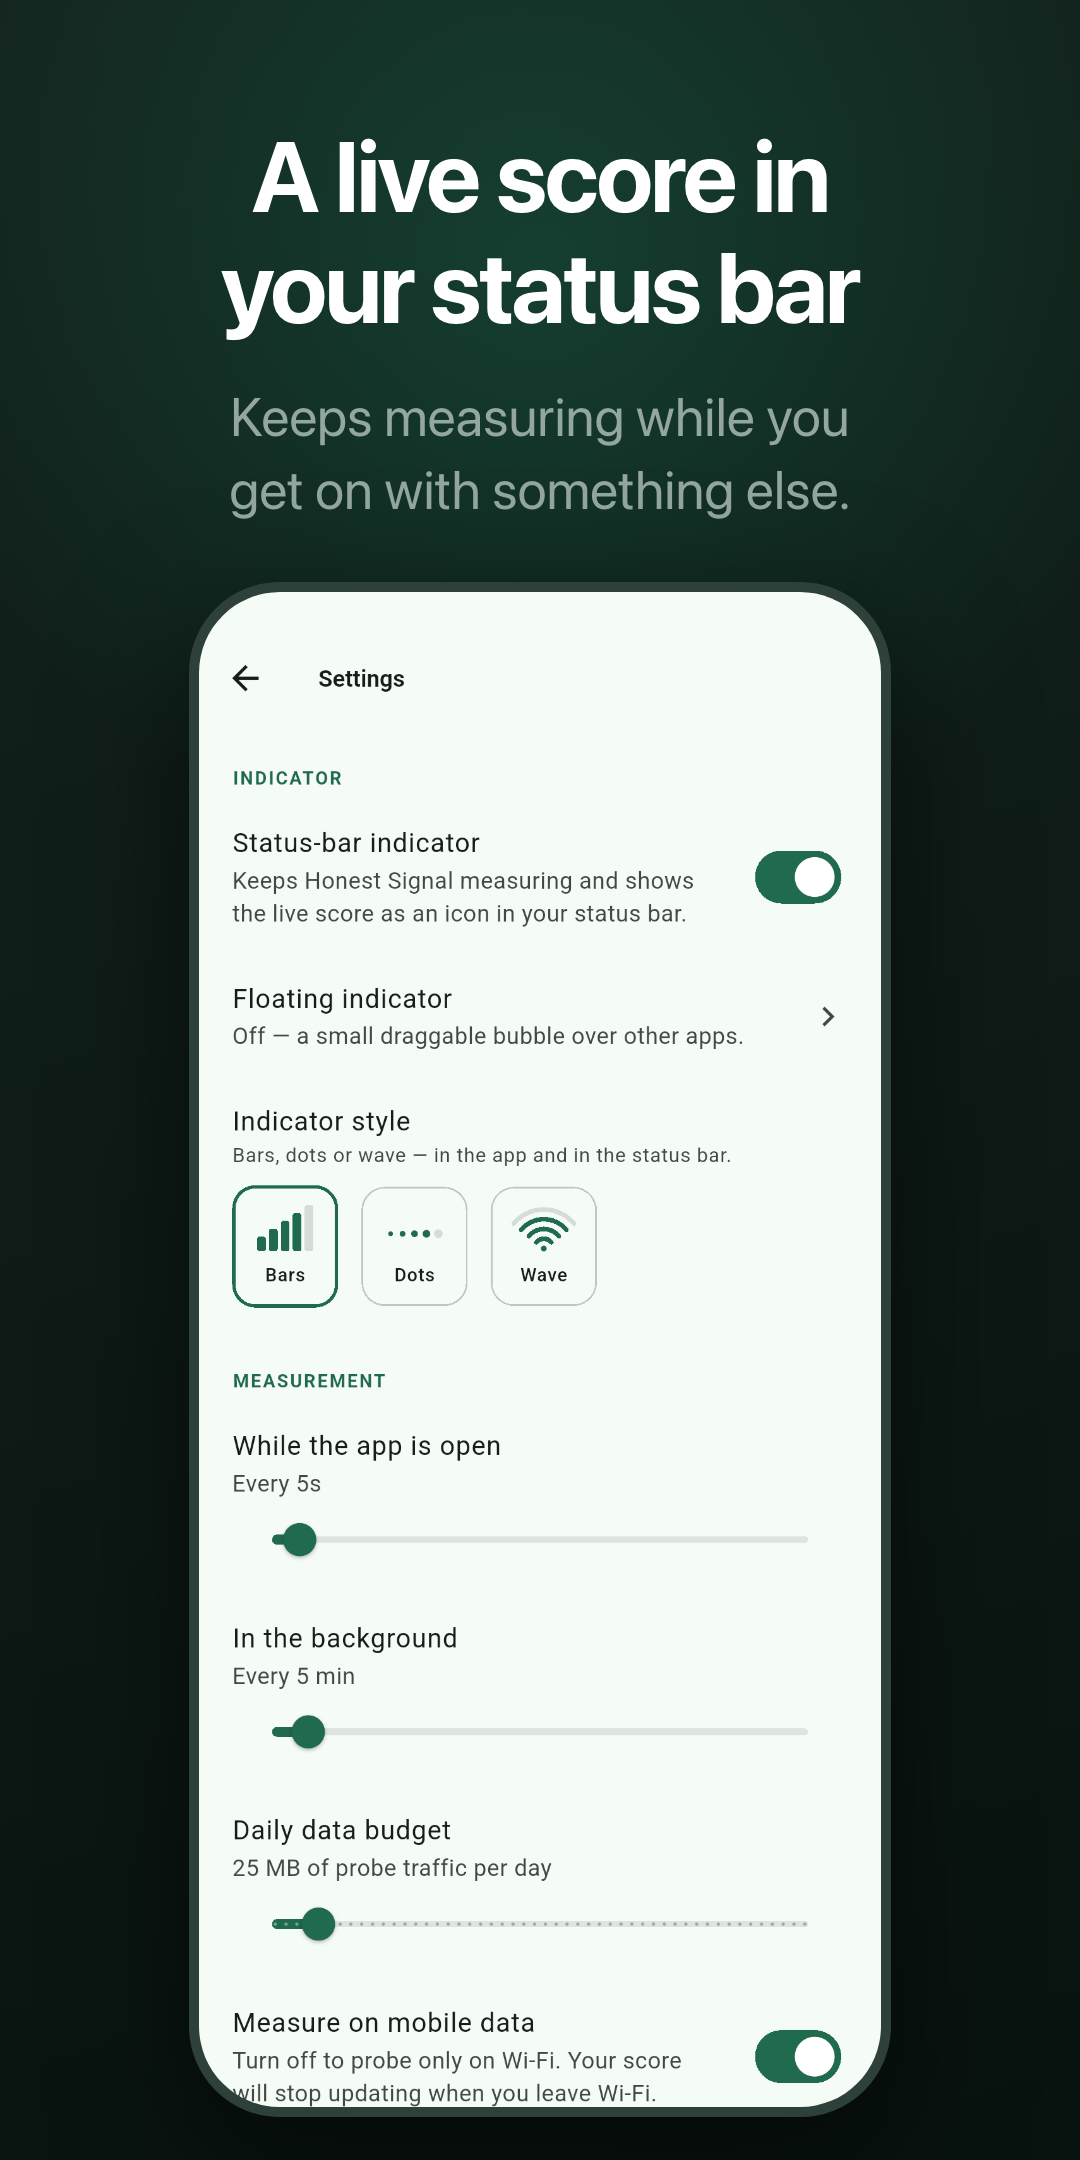
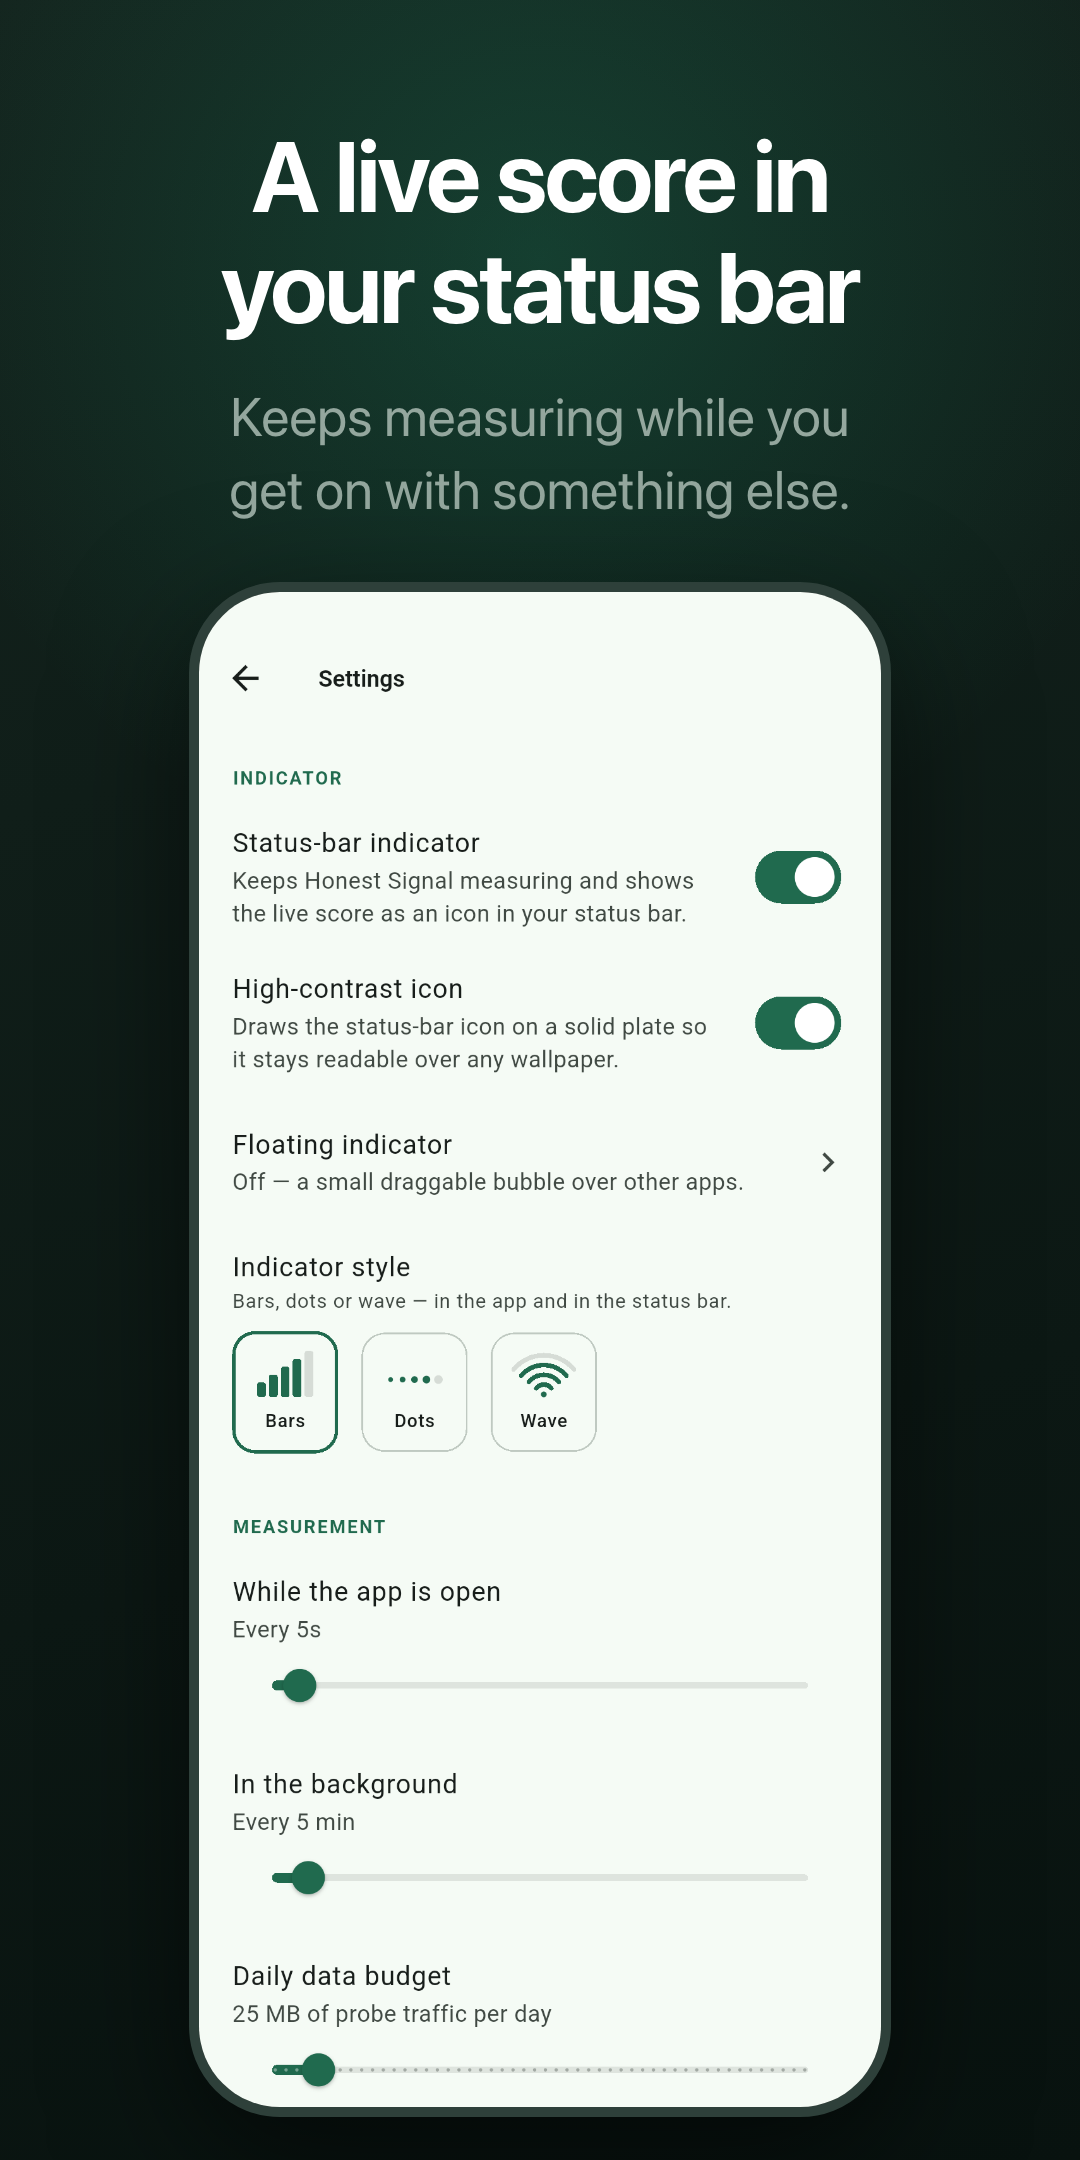
Recapture the Play statusbar listing screenshot from the 1.0.1 build
The settings screen gained a "High-contrast icon" row in 1.0.1, so the shipped
artwork for `03_statusbar` showed a settings list that no longer exists. The
1.0.1 note also said the shot's status bar showed the old plain mark; it has no
status bar at all — the harness captures the Flutter surface, which is why the
spec frames the control that turns the indicator on rather than the icon itself.

Only `raw/03_settings.png` was recaptured into the set. A fresh capture of the
other four screens differs only in clock-dependent pixels (the history chart's
axis label is the capture time), and the how-it-works section 1.0.1 added sits
below the fold, so re-rendering them from the existing captures reproduces
`01_lying`, `02_home`, `04_history` and `05_method` byte-for-byte.

Uploaded as an images-only androidpublisher edit — Play orders screenshots by
upload order, so the whole set is deleted and re-uploaded to hold position, and
the raw path keeps tracks and listing text out of the edit. Read back from a
fresh edit after commit: 5 screenshots, order preserved, position 2 is the new
image, everything else unchanged, production still 1.0.1 (3) completed.

This commit also carries the conductor's already-written 1.0.1 release section,
which was sitting uncommitted in the tree.

diff --git a/PIPELINE.md b/PIPELINE.md
@@ -21,7 +21,7 @@ Decisions (founder, 2026-08-07): **free + £2.99 Pro IAP** (native `in_app_purch
 | 4b | security | mobile-security-auditor | done — **PASS** (0 Critical, 0 High, 3 Medium, 3 Low); SEC-1/2/3/4 fixed and re-verified 2026-08-09 | 2026-08-09 |
 | 5 | metadata | growth-monetization → release-manager | done — ASO (`docs/ASO.md`) + fastlane metadata written both stores | 2026-08-09 |
 | 6 | compliance | app-store-review-auditor | done — **PASS** re-verified (C-1/C-2/H-1/H-4 closed; H-2/H-3/M-1/M-2/M-3 carried as stage-7 gate conditions) | 2026-08-09 |
-| 7 | publish | store-publisher | uploaded both stores; **awaiting console-only steps before submit** (Apple: privacy label + IAP "Add for Review"; Play: declarations + first rollout) | 2026-08-09 |
+| 7 | publish | store-publisher | uploaded both stores; **awaiting console-only steps before submit** (Apple: privacy label + IAP "Add for Review"; Play: declarations + first rollout). Play listing screenshot `03_statusbar` recaptured from vc3 and re-uploaded 2026-08-15 (images-only edit; no track touched) | 2026-08-15 |
 | 8 | website | general-purpose (froggyeye-website skill) | done — page LIVE at https://honestsignal.froggyeye.com (brought forward; clears compliance C-2). Post-publish follow-ups: refresh_store_urls + postprocess once listings live; drop screenshot1.png after recapture; edit hero meta 'Launching on iOS & Android' | 2026-08-09 |
 
 ## Stage 1 (build) — completed 2026-08-07
@@ -1033,6 +1033,13 @@ all 36; each plated mask still carries its even-odd plate path.
   should be recaptured: it is framed from the settings capture, which has gained
   the "High-contrast icon" row, and its status bar shows the old plain mark.
   Deliberately not recaptured here.
+  **— done 2026-08-15 (store-publisher); superseded, do not act on this again.**
+  See "Play listing screenshot recaptured" below. One correction to the note
+  above: the shot has no status bar in it at all. The harness captures the
+  Flutter surface only (`convertFlutterSurfaceToImage`), so no system status bar
+  is ever in a raw capture — which is exactly why `screenshot_specs.md` §3 frames
+  the *control* that turns the indicator on rather than the indicator itself.
+  Only the missing "High-contrast icon" row was actually stale.
 - Play changelog for versionCode 3 written at
   `android/fastlane/metadata/android/en-GB/changelogs/3.txt` (496 chars, en-GB
   only — house rule 19: notes for a locale the listing lacks are swallowed).
@@ -1077,3 +1084,53 @@ from all three arms of `IndicatorIcons.resourceFor`. The
 coverage but the fixture leaves the field at its default, so it pins agreement
 rather than behaviour. The shipped behaviour is correct — the device capture
 proves it — but nothing stops the next change from silently severing it.
+
+## 1.0.1 released to Play production (conductor, 2026-08-14)
+
+- Code review: **PASS** (0 Critical/Major, 7 Minor N4–N10) — see the section above and `docs/audits/code-review.md`.
+- **History scrub before the public push:** the baseline commit had swept the previously-untracked fastlane trees into the tree — including `ios/fastlane/metadata/review_information/` (founder name + portfolio phone number) and both `report.xml` fastlane logs. Local-only commits were rewritten to exclude those paths, `.gitignore` now pins all three, and after the push the phone-number raw URL was confirmed **404** while the rest of the metadata is public as per house convention. The files remain on disk for `deliver`/local use.
+- Pushed as `195dedc` (rewritten hashes: baseline `9d2840d`, release `e5c26ae`, captures `d61845c`).
+- **Play:** vc3 AAB uploaded via the raw androidpublisher path (34 s; house-facts §28) with the en-GB changelog → internal `completed`, then promoted: production track PUT + plain commit **accepted** (no console click needed for an update, unlike the first rollout). Track read-back: production = `1.0.1 (3) completed`. Google's review/quick checks run automatically; users update when it clears.
+- **Apple:** untouched; 1.0.0 build 1 still WAITING_FOR_REVIEW. The 1.0.1 changes are Android-only — no iOS release is owed for this round.
+- Follow-ups in flight: Play listing screenshot `03_statusbar` recapture from the vc3 build (store-publisher); N4 + minor nits N5/N6/N9/N10 (flutter-architect, point release — no store upload owed until the next release rides); Lucky Numbers promo-page Play button (founder-approved hand edit, website session).
+
+## Play listing screenshot recaptured from vc3 (store-publisher, 2026-08-15)
+
+`03_statusbar` — the only Play listing image the 1.0.1 round left stale — was
+recaptured from the current source and re-uploaded. Nothing else on either store
+was touched: no track, no release, no metadata text, and the App Store set and
+`raw_ios/` were not opened (1.0.0 build 1 is still with Apple).
+
+- **What was actually stale.** The settings screen gained the "High-contrast
+  icon" row in 1.0.1, and the shipped artwork predated it. The 1.0.1 note also
+  said "its status bar shows the old plain mark" — it does not, and could not:
+  the harness captures the Flutter surface, so no raw capture has a system status
+  bar in it. That is the premise of `screenshot_specs.md` §3, which frames the
+  control rather than a composited mock-up of the icon.
+- **Capture.** `flutter drive` + `integration_test/screenshots_test.dart` with
+  `--dart-define=SCREENSHOT_MODE=true` on `Medium_Phone_API_36.1`, light
+  appearance, 1080 × 2400, tier marker `pro` written by the driver.
+- **Only `raw/03_settings.png` was adopted.** The other four captures were
+  restored to the versions that produced the live artwork, because a fresh
+  capture of them differs only in clock-dependent pixels (the history chart's
+  axis label reads the capture time) and the brief was to change one shot. The
+  new "About the status-bar icon" section that 1.0.1 added to How-it-works sits
+  below the fold and does not reach the framed shot. `./render.sh play` then
+  reproduced `01_lying`, `02_home`, `04_history` and `05_method`
+  **byte-for-byte identical** to the live set — which also demonstrates the
+  framing pipeline is deterministic on this machine.
+- **Upload.** Raw androidpublisher edit, not `supply`: Play orders screenshots by
+  upload order, so preserving position means deleting and re-uploading the whole
+  set, and the raw path makes it visible that no track or listing text is in the
+  edit. Staged set was SHA-1-matched against the local files *before* commit.
+- **Server read-back (fresh edit, after commit):** 5 phone screenshots, order
+  preserved, position 2 (0-indexed) now `62704ba776aac1a9a437e418309e662f8a1790d0`
+  = local `3_03_statusbar.png`; the other four SHA-1s unchanged; icon and feature
+  graphic unchanged; production track still `1.0.1 (3) completed`.
+- **Emulator hazard worth knowing:** two capture runs were spoiled by the shared
+  emulator's display size and dark/light appearance changing *mid-run* (captures
+  came out 1320 × 2868, and dark). Neither idle time nor a plain app launch
+  reproduced it, so something outside this session touches `emulator-5554`.
+  Re-asserting `cmd uimode night no` and `wm size reset` immediately before the
+  run, and checking the geometry and appearance of the resulting PNGs rather than
+  trusting the green test result, is the guard.
